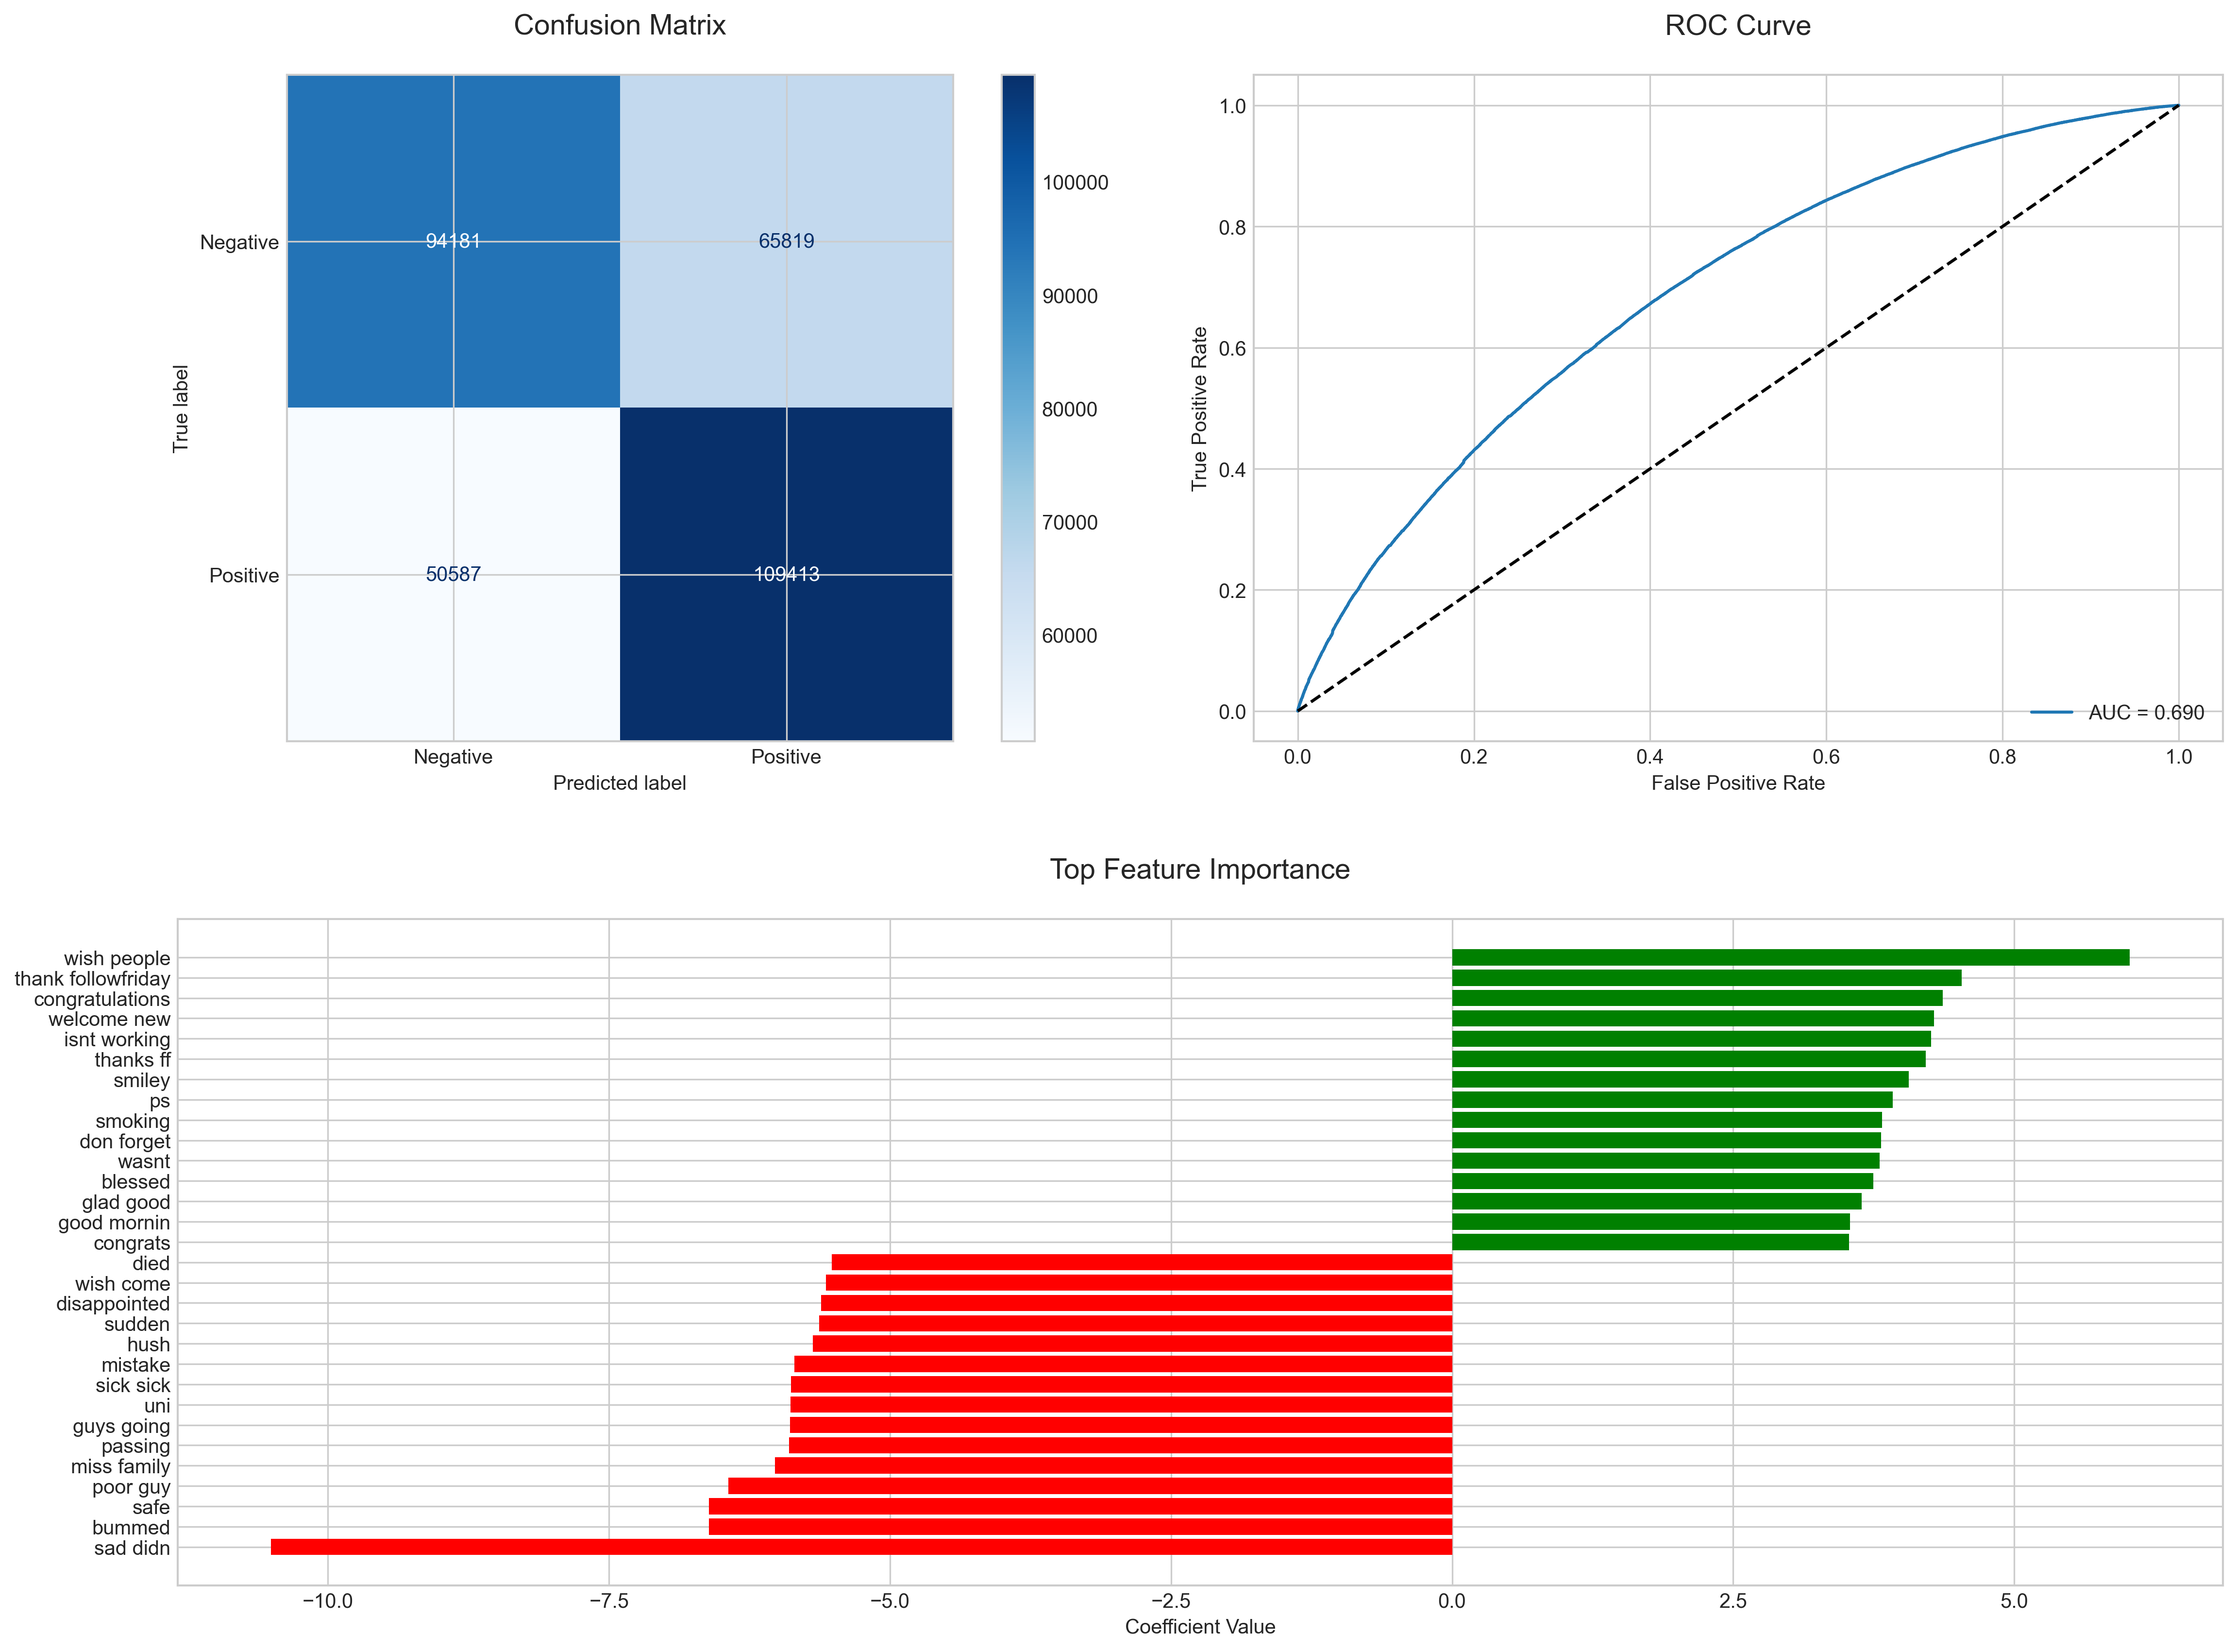
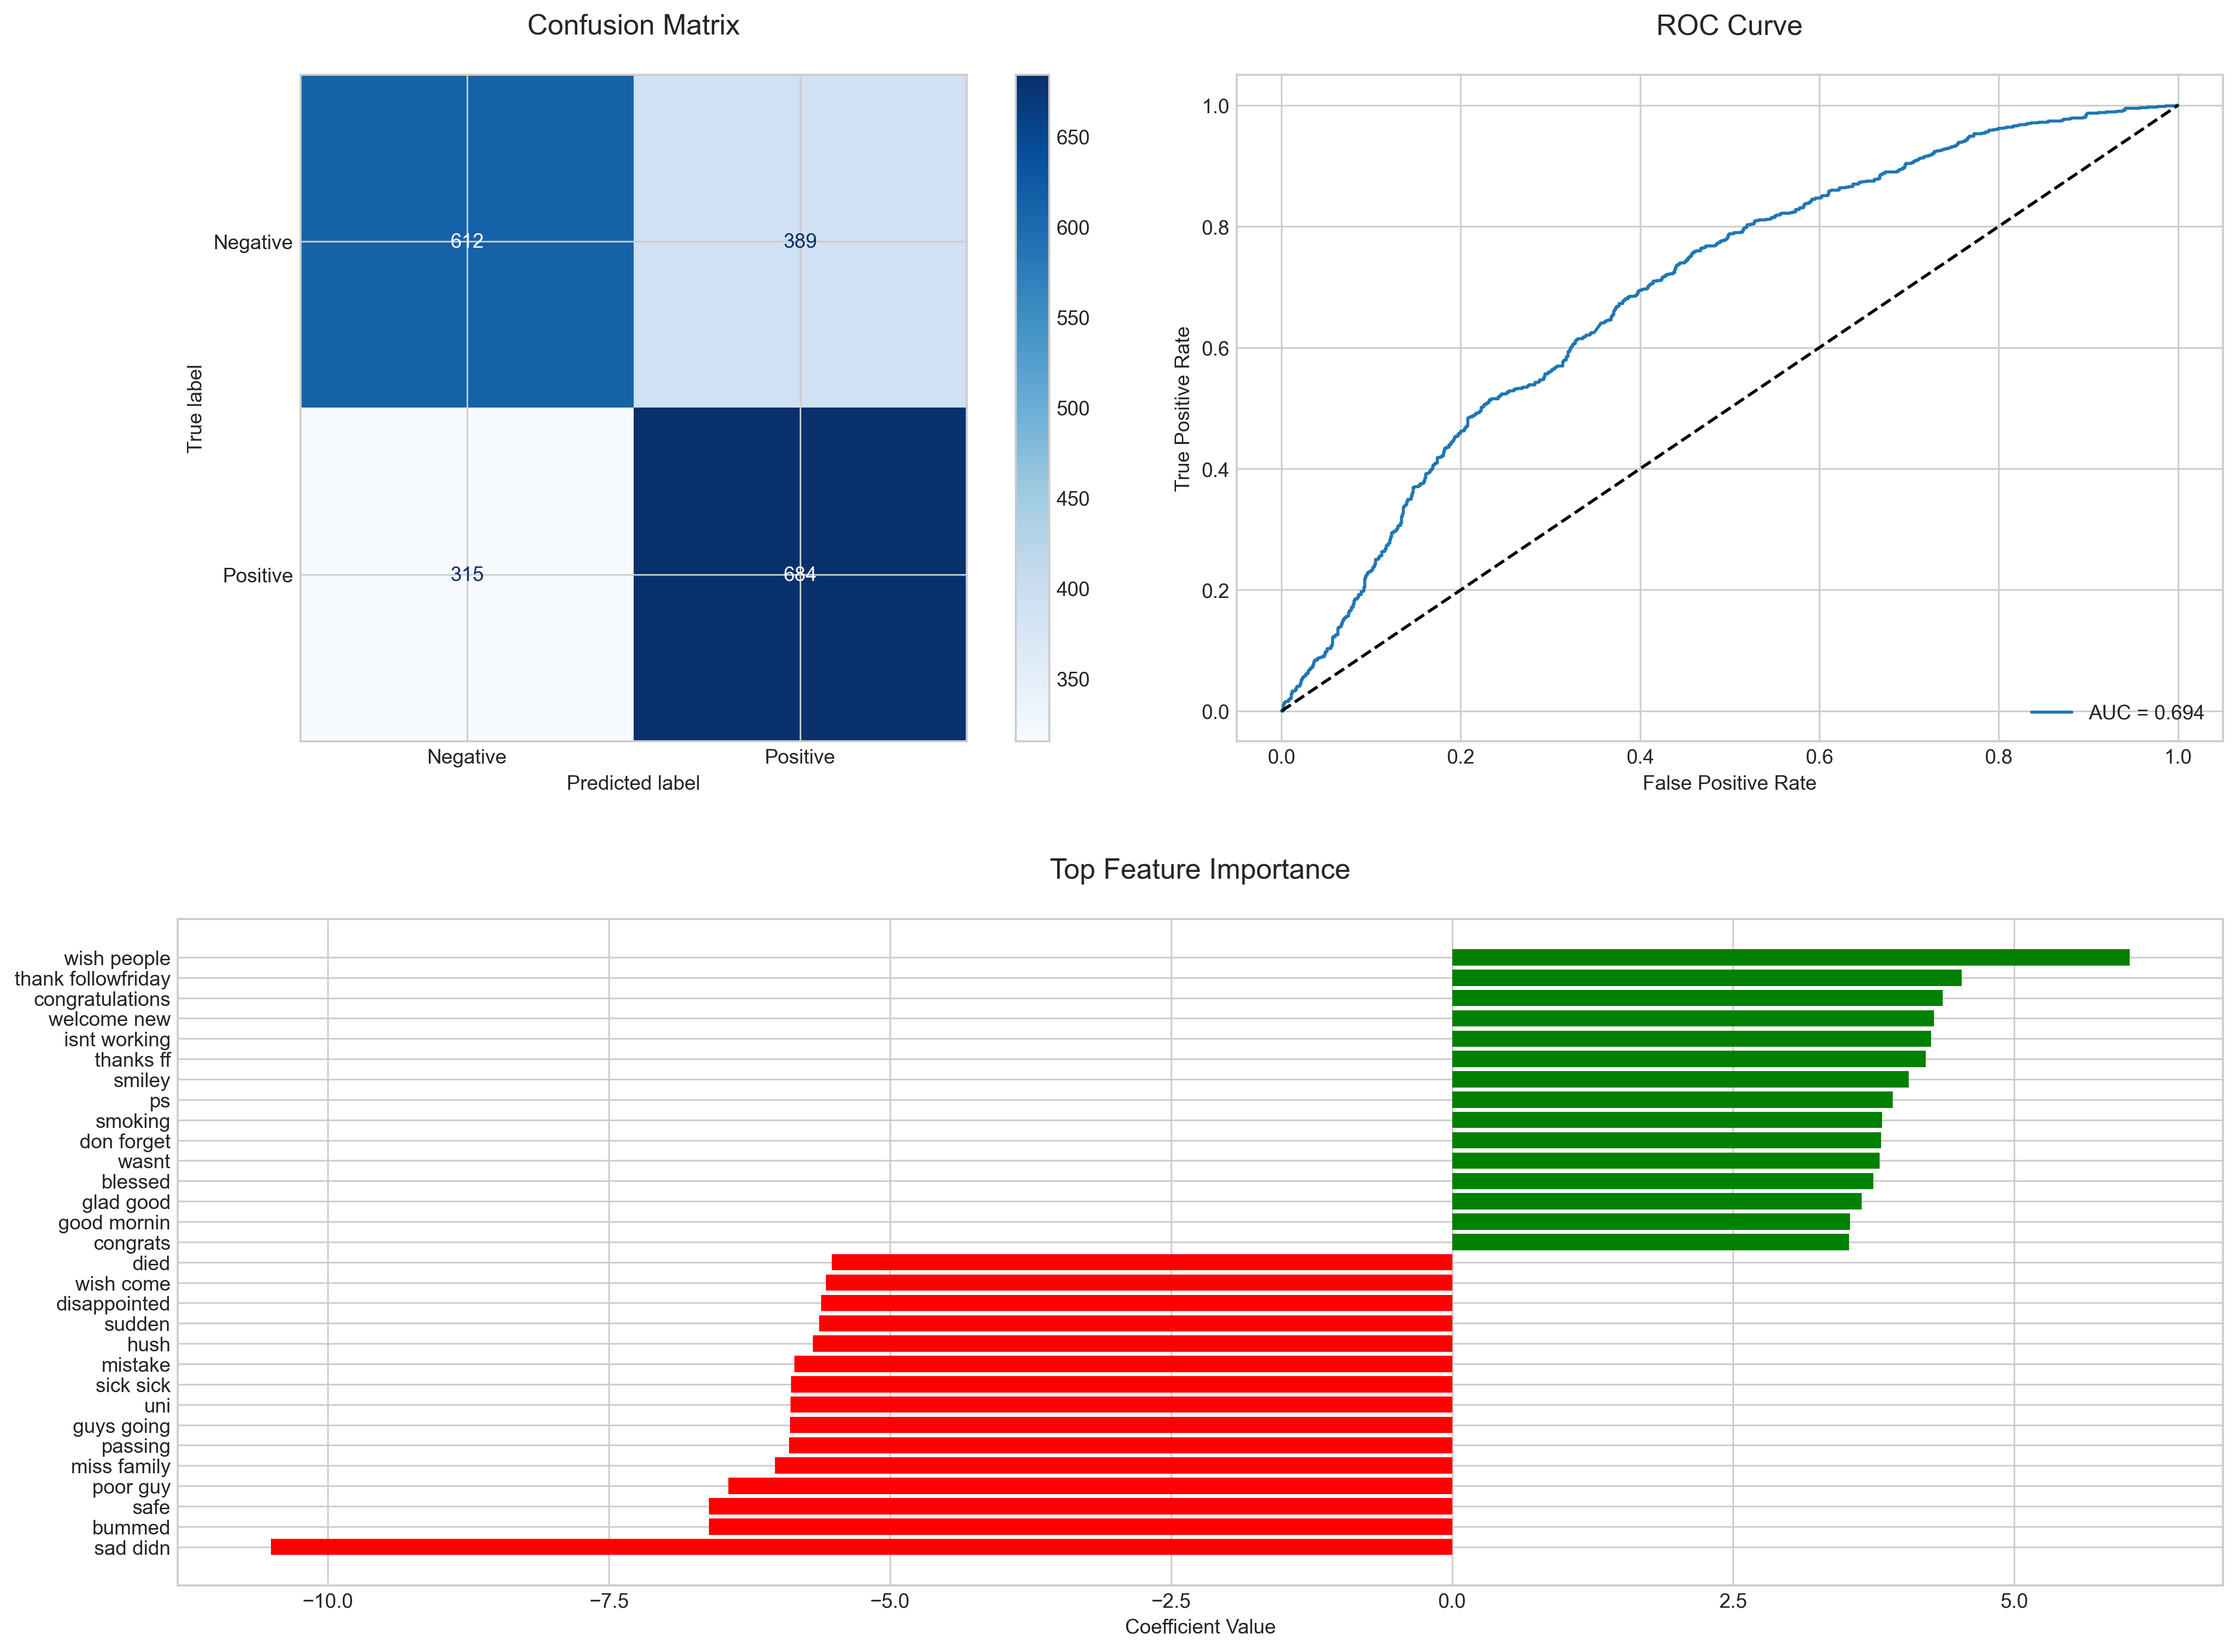
Develop temprorary working model -Include visualizations and working demo

diff --git a/demo.py b/demo.py
@@ -1,0 +1,45 @@
+import pandas as pd
+from tweet_moderation import main, predict_sentiment, interactive_demo
+from joblib import load
+import os
+
+def run_demo():
+    print("="*70)
+    print("             TWEET SENTIMENT ANALYSIS DEMO")
+    print("="*70)
+
+    # Step 1: Train/load the model
+    print("\n1. Initializing the model...")
+    if os.path.exists('logistic_regression_model.joblib') and os.path.exists('vectorizer.joblib'):
+        print("Loading existing model and vectorizer...")
+        model = load('logistic_regression_model.joblib')
+        vectorizer = load('vectorizer.joblib')
+    else:
+        print("Training new model...")
+        model, vectorizer = main(sample_size=10000)  # Use smaller sample for demo
+
+    # Step 2: Example predictions
+    print("\n2. Testing with example tweets...")
+    example_tweets = [
+        "I absolutely love this product! Best purchase ever!",
+        "This is terrible, worst experience of my life.",
+        "The weather is nice today.",
+        "I'm really disappointed with the service.",
+        "Just got a promotion at work! So excited!"
+    ]
+
+    for tweet in example_tweets:
+        result = predict_sentiment(tweet, vectorizer, model)
+        print("\nTweet:", tweet)
+        print("Sentiment:", result['label'])
+        # Fixed the confidence formatting
+        print("Confidence:", result['confidence'])
+        print("-" * 50)
+
+    # Step 3: Interactive mode
+    print("\n3. Starting interactive mode...")
+    print("You can now enter your own tweets to analyze!")
+    interactive_demo(vectorizer, model)
+
+if __name__ == "__main__":
+    run_demo()
